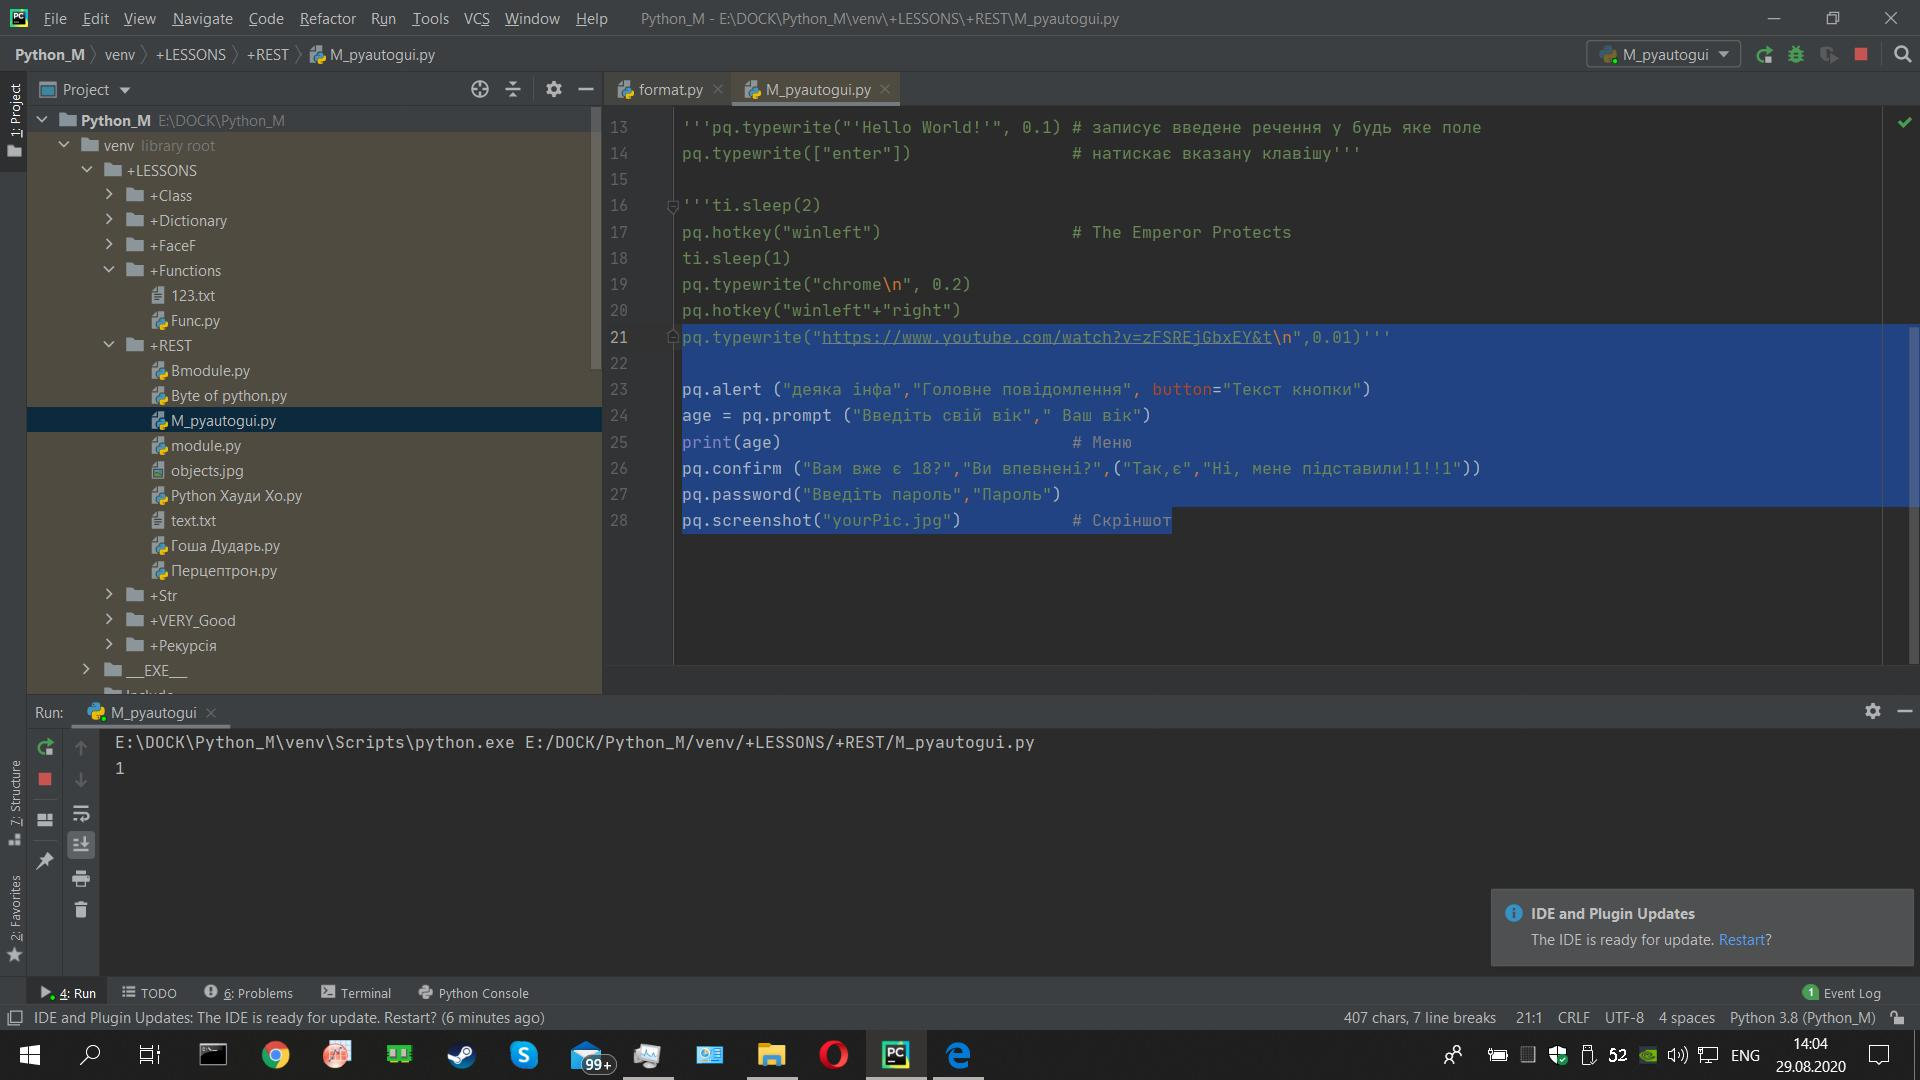
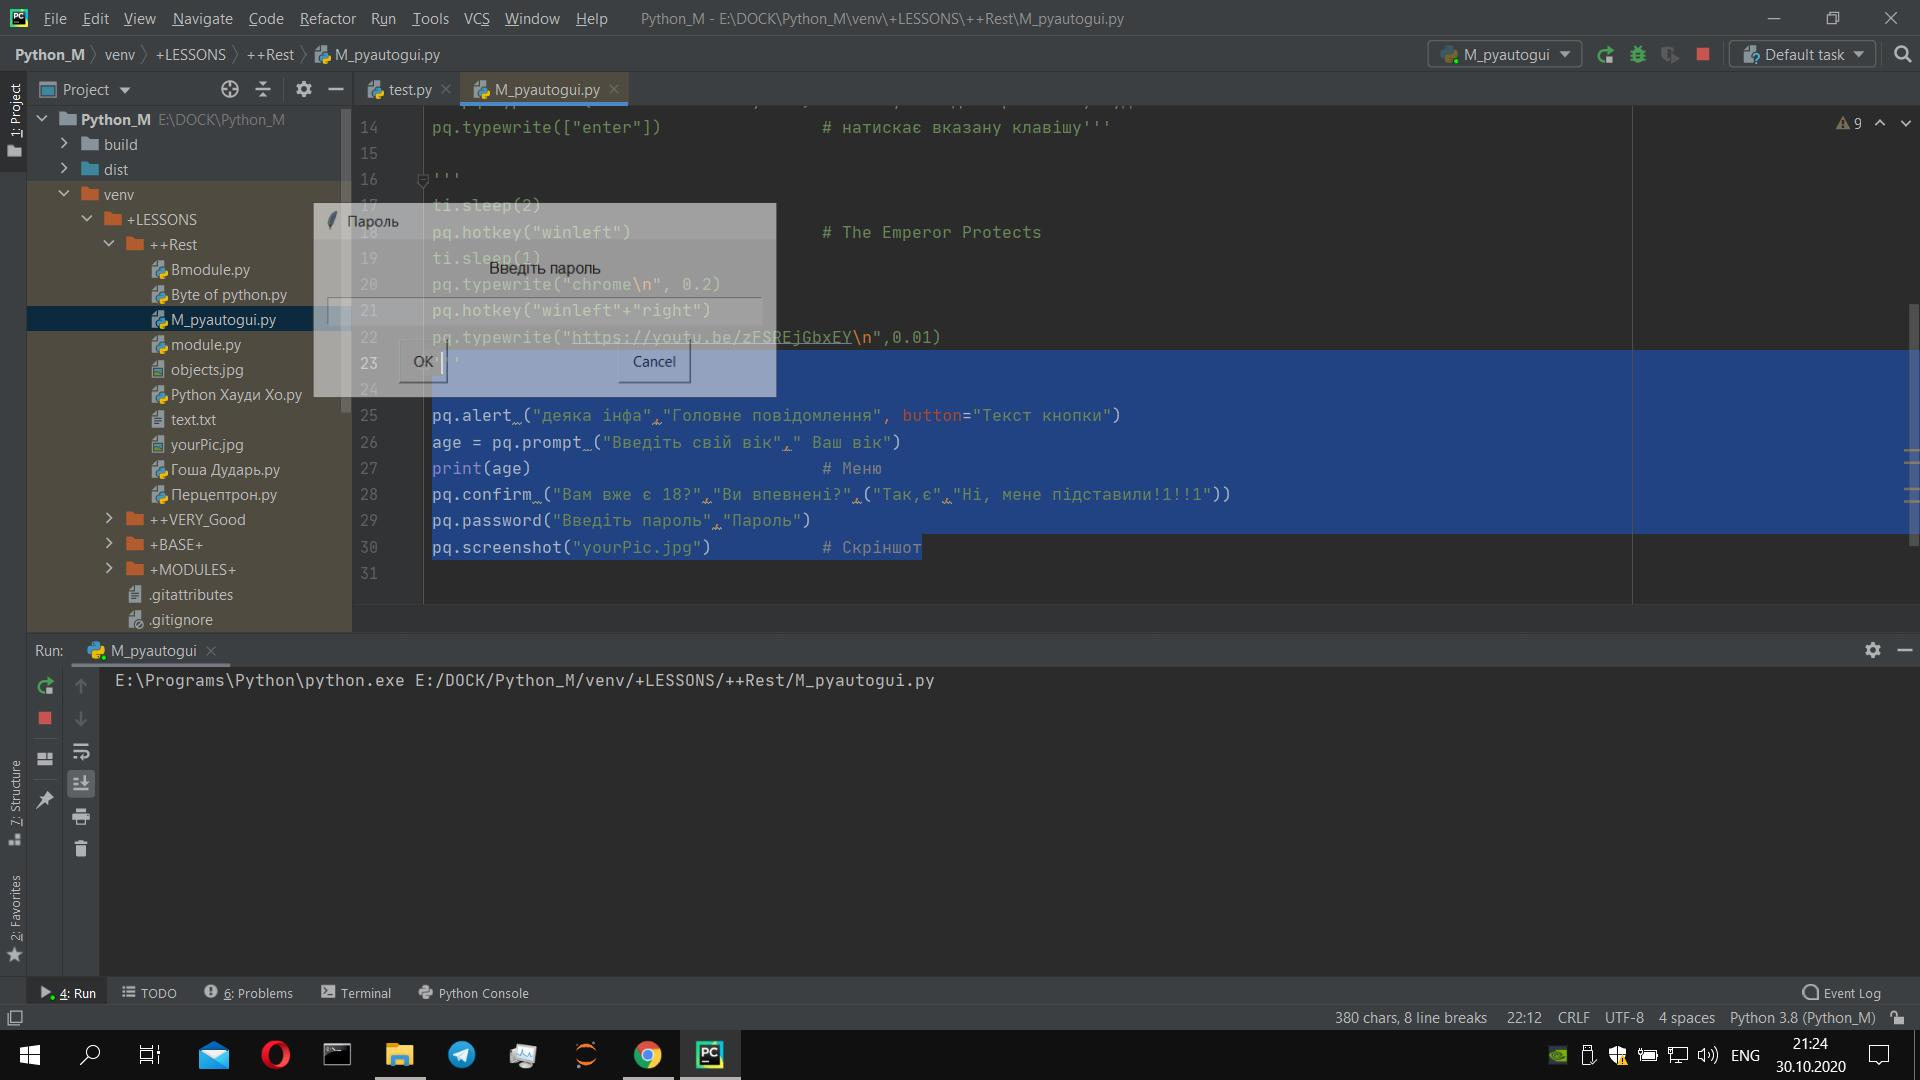
30/10/20

diff --git a/++Rest/M_pyautogui.py b/++Rest/M_pyautogui.py
@@ -13,16 +13,18 @@ pq.click(70,896,duration=0.5)'''
 '''pq.typewrite("'Hello World!'", 0.1) # записує введене речення у будь яке поле
 pq.typewrite(["enter"])                # натискає вказану клавішу'''
 
-'''ti.sleep(2)
+'''
+ti.sleep(2)
 pq.hotkey("winleft")                   # The Emperor Protects
 ti.sleep(1)
 pq.typewrite("chrome\n", 0.2)
 pq.hotkey("winleft"+"right")
-pq.typewrite("https://www.youtube.com/watch?v=zFSREjGbxEY&t\n",0.01)'''
+pq.typewrite("https://youtu.be/zFSREjGbxEY\n",0.01)
+'''
 
-'''pq.alert ("деяка інфа","Головне повідомлення", button="Текст кнопки")
+pq.alert ("деяка інфа","Головне повідомлення", button="Текст кнопки")
 age = pq.prompt ("Введіть свій вік"," Ваш вік")
 print(age)                             # Меню 
 pq.confirm ("Вам вже є 18?","Ви впевнені?",("Так,є","Ні, мене підставили!1!!1"))
 pq.password("Введіть пароль","Пароль")
-pq.screenshot("yourPic.jpg")           # Скріншот'''
+pq.screenshot("yourPic.jpg")           # Скріншот

diff --git a/++Rest/Python Хауди Хо.py b/++Rest/Python Хауди Хо.py
@@ -1,4 +1,5 @@
-'====================================================' '''
+"""
+'===================================================='
 # Екранування \" \"   '""'
 print("123 \"1234\" 1234 12")
 print('123  "1234"  1234 12')
@@ -53,7 +54,7 @@ elif what == "-":
     c = a - b
     print("Результат:", c)
 else:
-    print("Вибрана неправильна операція!") 
+    print("Вибрана неправильна операція!")
 
 # Колір тексту
 from colorama import init
@@ -63,7 +64,8 @@ print(Fore.LIGHTRED_EX)
 print(Style.BRIGHT)
 print("Hello World!")
 
-'''
 # Створення exe-шника
 'pyinstaller -F test.py'
 # Погода
+
+"""

diff --git a/++Rest/Byte of python.py b/++Rest/Byte of python.py
@@ -29,7 +29,7 @@ def jr (a,b):
     else:
         print(a,"=",b)
 jr(5,6)
-x = 10; y =6
+x = 10; y = 6
 jr(x,y)
 "-------------global-------------------" 
 X = 10
